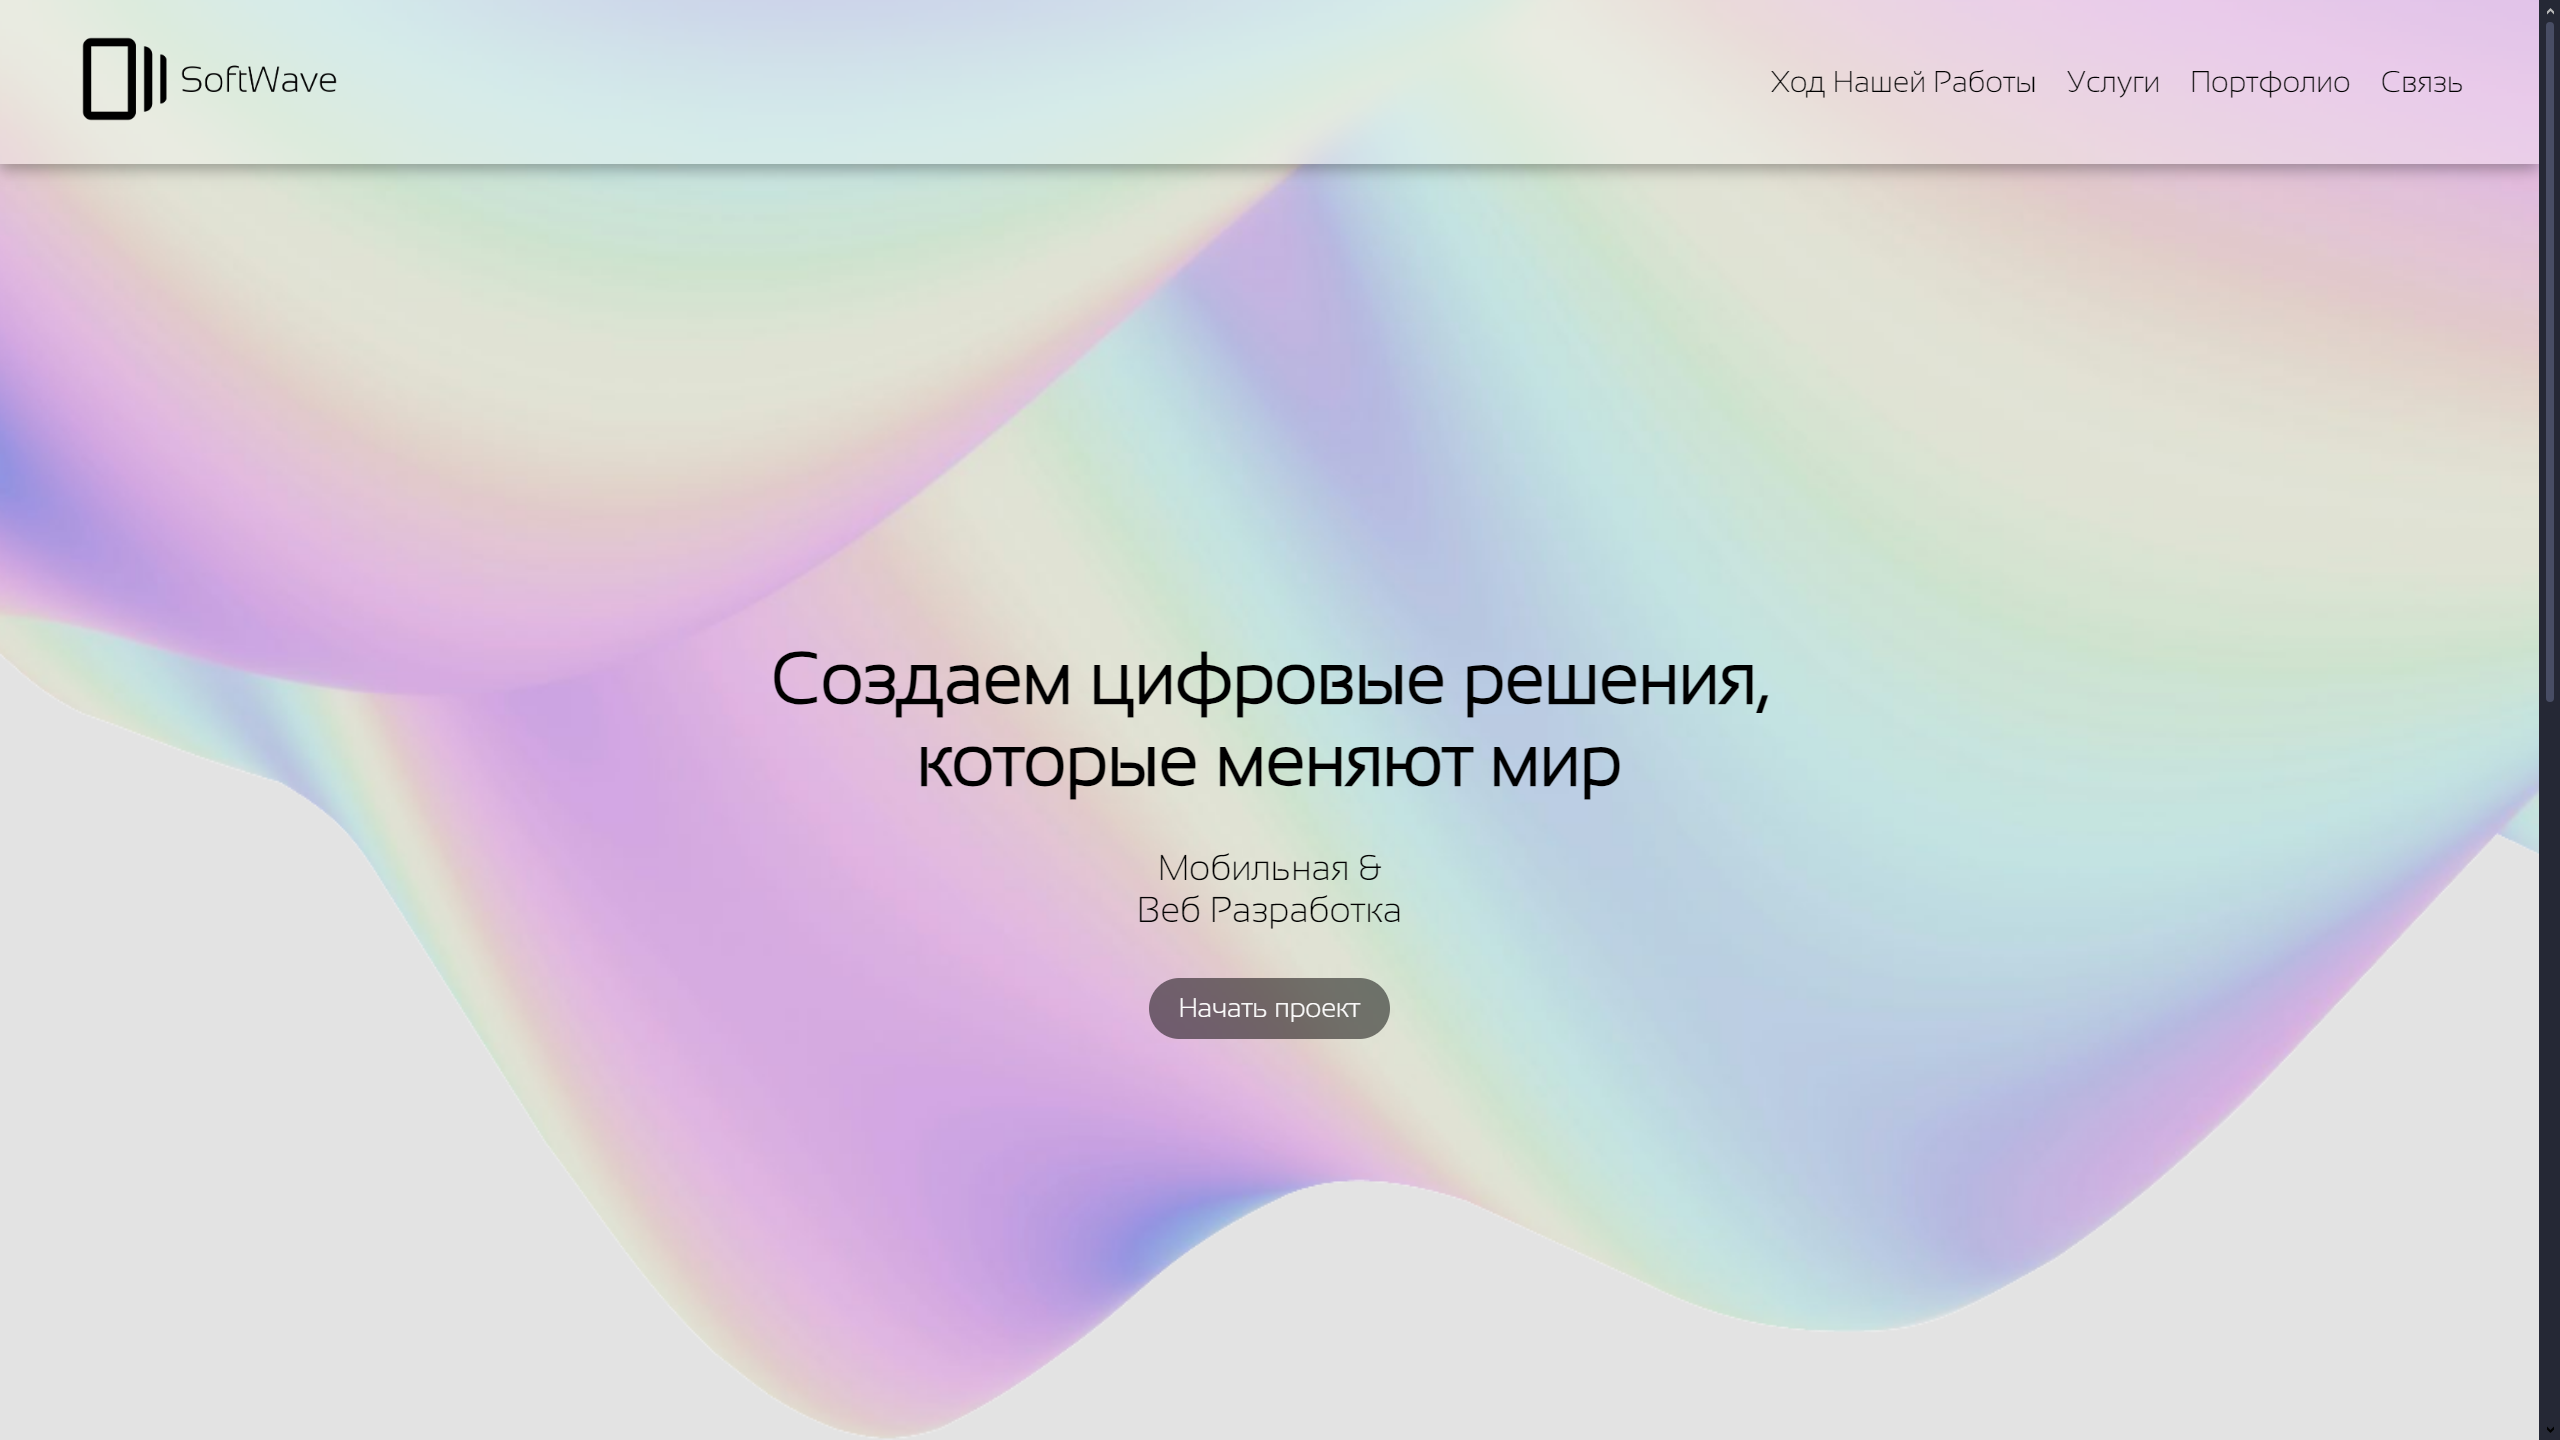
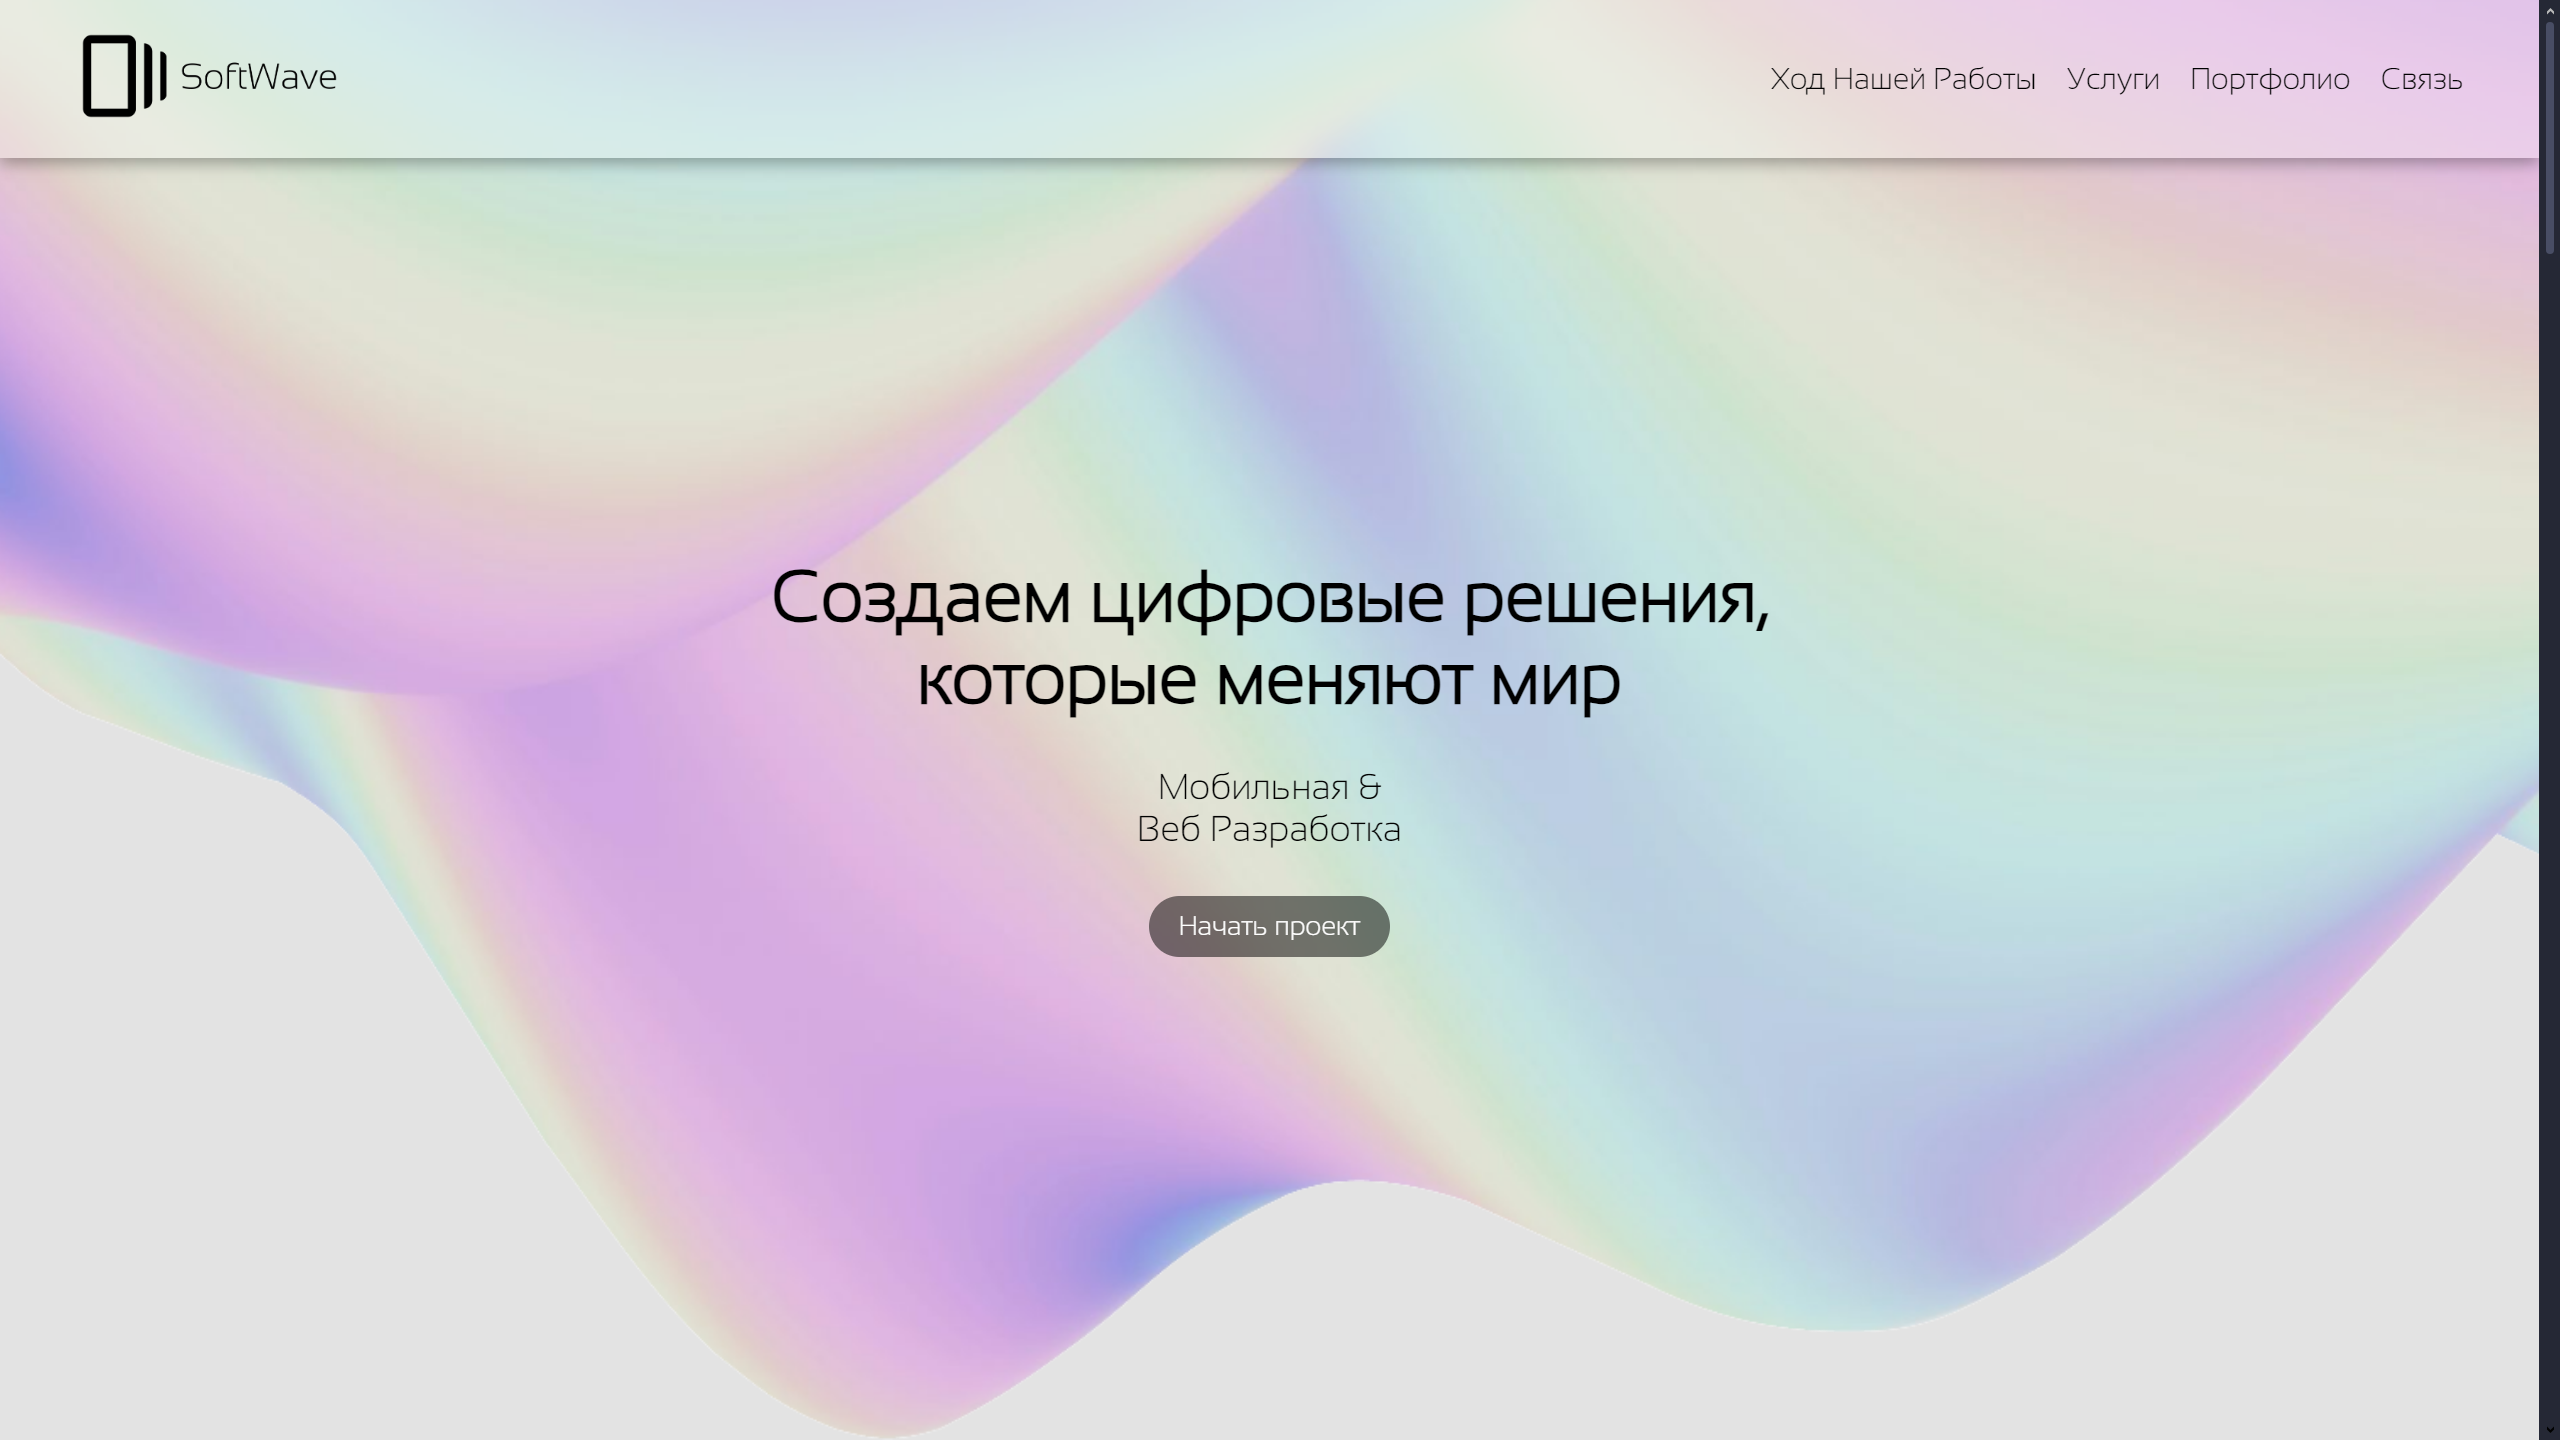
Added new section developmentTools. Updated README

diff --git a/style.css b/style.css
@@ -35,12 +35,12 @@ body {
     left: 0;
     width: 100%;
     min-height: 100vh;
-    background: url('assets/png/backgroung1.png') no-repeat center center/cover;
+    background: url('assets/png/background1.png') no-repeat center center/cover;
     }
   
   .header {
     width: 100%;
-    height: 12%;
+    height: 11%;
     background: rgba(255, 255, 255, 0.3);
     backdrop-filter: blur(10px);
     box-shadow: 0 4px 10px rgba(0, 0, 0, 0.3);
@@ -106,11 +106,11 @@ body {
     text-decoration: none;
     border-radius: 25px;
     font-size: 18px;
-    transition: 1s;
   }
   
   .content .button:hover {
     background: #333;
+    transition: 0.3s;
   }
 
   .tech-wrapper{
@@ -330,8 +330,10 @@ body {
   position: relative;
   width: 100%;
   min-height: 100vh;
+  display: flex;
   align-items: center;
   justify-content: center;
+  z-index: 1;
 }
 
 .work-wrapper::before{
@@ -351,16 +353,14 @@ body {
   bottom: 0;
   left: 0;
   width:100%;
-  height: 100vh;
+  height: 120vh;
   background: url('assets/png/background5.png') no-repeat center center/cover;
   z-index: -1;
 }
 
 
-.text-work h2{
-  padding: 0 20px;
+.text-work{
   font-size: 40px;
-  margin: 0;
 }
 
 .dual-container-work {
@@ -372,7 +372,7 @@ body {
   overflow: hidden;
   max-width: 1200px;
   height: 160px;
-  margin: 50px auto 20px auto;
+  margin: 20px auto 20px auto;
   box-shadow: 0 5px 10px rgba(0, 0, 0, 0.3);
 }
 
@@ -445,4 +445,65 @@ body {
   padding-left: 10px;
   line-height: 1.2;
 }
+
+.develop-wrapper{
+  position: relative;
+  width: 100%;
+  height: 100vh;
+  display: flex;
+  align-items: center;
+  justify-content: center;
+  z-index: 1;
+}
+
+.develop-wrapper::before{
+  content: '';
+  position: absolute;
+  top: 0;
+  min-width:100%;
+  min-height: 100vh;
+  background: url('assets/png/background6.png') no-repeat center;
+  z-index: -1;
+}
+
+.tools-grid{
+  display: grid;
+  grid-template-columns: repeat(2,1fr);
+  grid-template-rows: repeat(3, 1fr);
+  gap: 40px;
+  width: 100%;
+  max-width: 1200px;
+  position: relative;
+}
+
+.last-block{
+  grid-column: 1/-1;
+  justify-self: center;
+  width: 50%;
+}
+
+.tools-cont{
+  background: rgba(255, 255, 255, 0.4);
+  backdrop-filter: blur(5px);
+  padding: 20px;
+  border-radius: 25px;
+  box-shadow: 0 4px 10px rgba(0, 0, 0, 0.3);
+  max-width: 500px;
+  max-height: 200px; 
+}
+
+.title-tools{
+  font-size: 30px;
+  margin-bottom: 0px;
+  display: block;
+}
+
+.text-tools{
+  font-size: 20px;
+}
+
+.text-dvlp{
+  font-size: 40px;
+}
+
   

diff --git a/index.html b/index.html
@@ -109,9 +109,7 @@
         </div>
         <div class="work-wrapper">
             <section id="our_work" class="work">
-                <div class="text-work">
-                    <h2>Ход Нашей Работы</h2>
-                </div>
+                <h2 class="text-work">Ход Нашей Работы</h2>
                 <section class="dual-container-work">
                     <div class="left-cont-work">
                         <div class="left-text-work">
@@ -261,6 +259,38 @@
                         </div>
                     </div>
                 </section>
+            </section>
+        </div>
+        <div class="develop-wrapper">
+            <section id="dvlp_tools" class="develop">
+                <h2 class="text-dvlp">Средства разработки</h2>
+                <div class="tools-grid">
+                    <div class="tools-cont">
+                        <span class="title-tools">Анализ продукта</span>
+                        <br>
+                        <span class="text-tools">Исследование рынка, анализ конкурентов, тайный покупатель, UX-аудит</span>
+                    </div>
+                    <div class="tools-cont">
+                        <span class="title-tools">Аналитика</span>
+                        <br>
+                        <span class="text-tools">UML, BPWIN, Swagger</span>
+                    </div>
+                    <div class="tools-cont">
+                        <span class="title-tools">UI/UX</span>
+                        <br>
+                        <span class="text-tools">Figma, Sketch, Lottie</span>
+                    </div>
+                    <div class="tools-cont">
+                        <span class="title-tools">Мобильная разработка</span>
+                        <br>
+                        <span class="text-tools">Swift, Kotlin, Flutter, Dart</span>
+                    </div>
+                    <div class="tools-cont last-block">
+                        <span class="title-tools">Веб-разработка</span>
+                        <br>
+                        <span class="text-tools">Java, PHP, Go, React.js, Vue.js, Shopify, X-Cart</span>
+                    </div>
+                </div>
             </section>
         </div>
     </section>

diff --git a/README.md b/README.md
@@ -1,10 +1,14 @@
 # Web project, business card site for an enterprise 
-Used HTML, CSS, JS
-## Presentation
+## Used HTML, CSS, JS
+# Presentation
+## HomePage
 ![alt text](assets/screenshotsREADME/screenshot1.png)
+## WorkersTechSection
 ![alt text](assets/screenshotsREADME/screenshot2.png)
+## CustomersSection
 ![alt text](assets/screenshotsREADME/screenshot3.png)
+## HowWeWorkSection
 ![alt text](assets/screenshotsREADME/screenshot4.png)
 ![alt text](assets/screenshotsREADME/screenshot5.png)
+## DevelopmentToolsSection
 ![alt text](assets/screenshotsREADME/screenshot6.png)
-![alt text](assets/screenshotsREADME/screenshot7.png)
